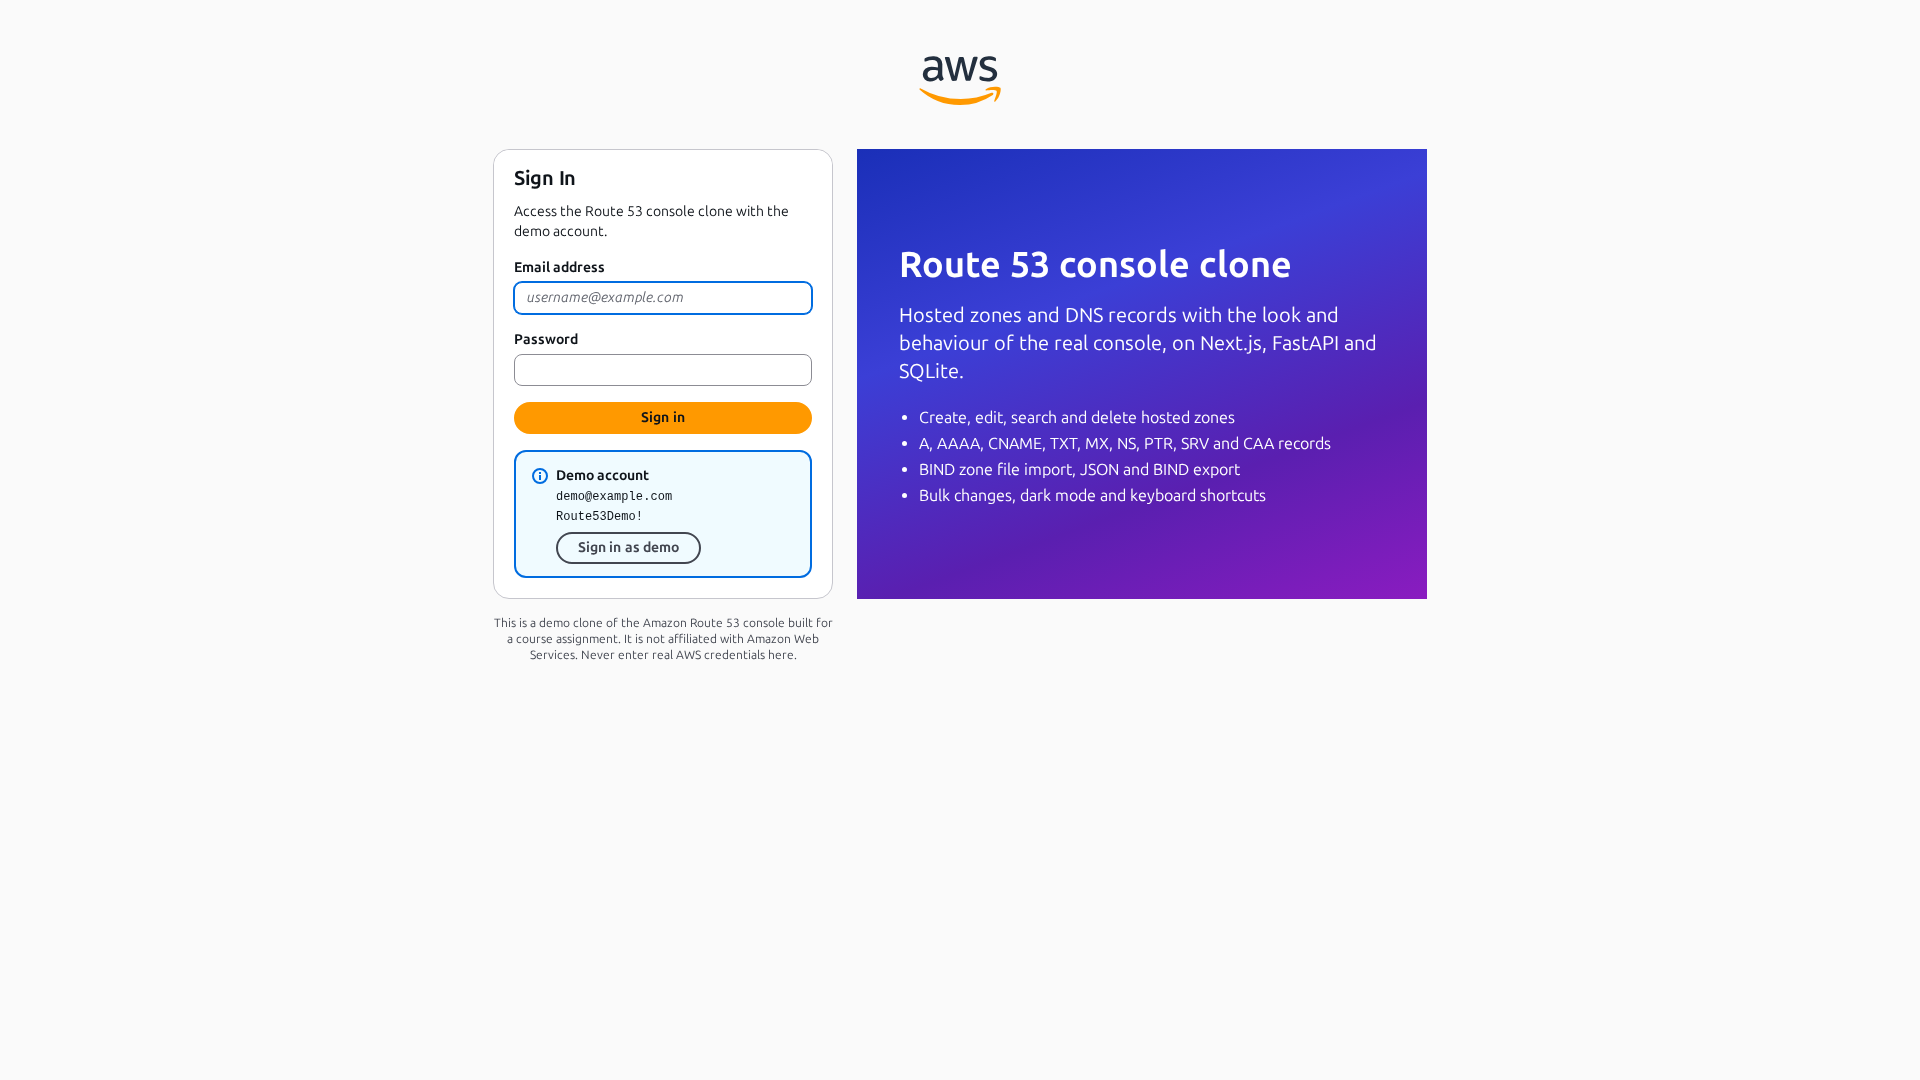
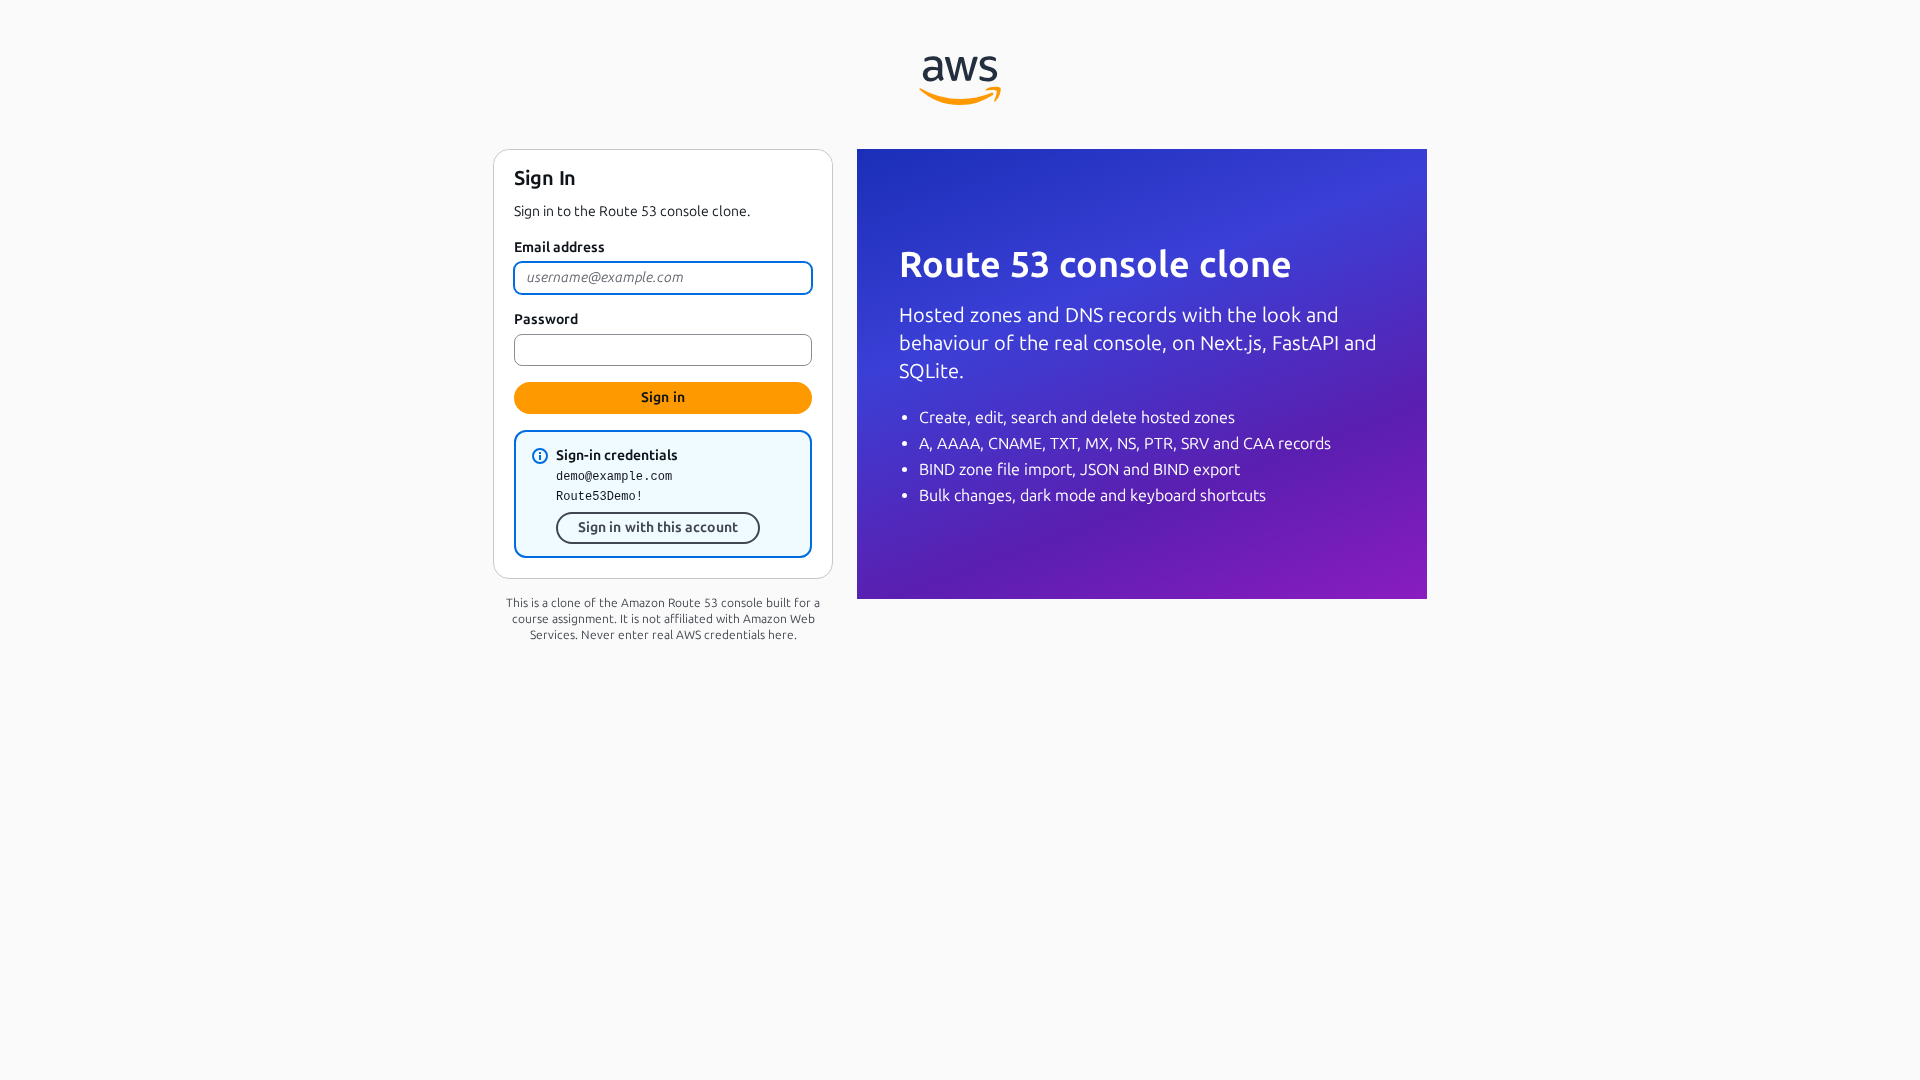
Stop calling the console a demo in the interface
The sign-in page, the header and footer notices, the account menu and the
page description said "demo"; they now say "clone" or nothing. The notice
that the site is not affiliated with AWS stays on the sign-in page.

The endpoint behind the sign-in page's credentials box is renamed from
/auth/demo-credentials to /auth/published-credentials, and the API client
is regenerated. The README, the UI spec and the sign-in screenshot follow
the new wording.

Changed region(s): [[0.25, 0.1833, 0.4375, 0.6111]]

diff --git a/frontend/app/(auth)/signin/page.tsx b/frontend/app/(auth)/signin/page.tsx
@@ -34,9 +34,9 @@ function SignInForm() {
   const [password, setPassword] = useState("");
   const [submitted, setSubmitted] = useState(false);
 
-  const demo = useQuery({
-    queryKey: ["demo-credentials"],
-    queryFn: () => unwrap(api.GET("/api/v1/auth/demo-credentials")),
+  const published = useQuery({
+    queryKey: ["published-credentials"],
+    queryFn: () => unwrap(api.GET("/api/v1/auth/published-credentials")),
     retry: false,
     staleTime: Infinity,
   });
@@ -64,7 +64,7 @@ function SignInForm() {
     <form onSubmit={onSubmit} noValidate>
       <Container header={<Header variant="h2">Sign In</Header>}>
         <SpaceBetween size="m">
-          <Box>Access the Route 53 console clone with the demo account.</Box>
+          <Box>Sign in to the Route 53 console clone.</Box>
           {failure && (
             <Alert type="error" header="There was a problem">
               {failure}
@@ -98,27 +98,27 @@ function SignInForm() {
           <Button variant="primary" fullWidth formAction="submit" loading={signIn.isPending}>
             Sign in
           </Button>
-          {demo.data && (
+          {published.data && (
             <Alert
               type="info"
-              header="Demo account"
+              header="Sign-in credentials"
               action={
                 <Button
                   formAction="none"
                   disabled={signIn.isPending}
                   onClick={() => {
-                    setEmail(demo.data.email);
-                    setPassword(demo.data.password);
-                    submit(demo.data);
+                    setEmail(published.data.email);
+                    setPassword(published.data.password);
+                    submit(published.data);
                   }}
                 >
-                  Sign in as demo
+                  Sign in with this account
                 </Button>
               }
             >
-              <Box variant="code">{demo.data.email}</Box>
+              <Box variant="code">{published.data.email}</Box>
               <br />
-              <Box variant="code">{demo.data.password}</Box>
+              <Box variant="code">{published.data.password}</Box>
             </Alert>
           )}
         </SpaceBetween>
@@ -142,11 +142,11 @@ export default function SignInPage() {
             </Suspense>
           </div>
           <p className={styles.legal}>
-            This is a demo clone of the Amazon Route 53 console built for a course assignment. It is
-            not affiliated with Amazon Web Services. Never enter real AWS credentials here.
+            This is a clone of the Amazon Route 53 console built for a course assignment. It is not
+            affiliated with Amazon Web Services. Never enter real AWS credentials here.
           </p>
         </div>
-        <section className={styles.promo} aria-label="About this demo">
+        <section className={styles.promo} aria-label="About this clone">
           <h1 className={styles.promoTitle}>Route 53 console clone</h1>
           <p className={styles.promoText}>
             Hosted zones and DNS records with the look and behaviour of the real console, on

diff --git a/frontend/lib/api/schema.d.ts b/frontend/lib/api/schema.d.ts
@@ -72,7 +72,7 @@ export interface paths {
         patch?: never;
         trace?: never;
     };
-    "/api/v1/auth/demo-credentials": {
+    "/api/v1/auth/published-credentials": {
         parameters: {
             query?: never;
             header?: never;
@@ -80,10 +80,10 @@ export interface paths {
             cookie?: never;
         };
         /**
-         * Credentials of the public demo account
-         * @description Lets the sign-in page of a public demo show how to get in. Returns 404 when `R53_DEMO_CREDENTIALS_PUBLIC` is off.
+         * Credentials the sign-in page may show
+         * @description Lets the sign-in page of a public deployment show how to get in. Returns 404 when `R53_DEMO_CREDENTIALS_PUBLIC` is off.
          */
-        get: operations["demo_credentials"];
+        get: operations["published_credentials"];
         put?: never;
         post?: never;
         delete?: never;
@@ -321,13 +321,6 @@ export interface components {
              * @description Record sets created or updated
              */
             record_sets: components["schemas"]["RecordSetOut"][];
-        };
-        /** DemoCredentials */
-        DemoCredentials: {
-            /** Email */
-            email: string;
-            /** Password */
-            password: string;
         };
         /** ErrorDetail */
         ErrorDetail: {
@@ -586,6 +579,13 @@ export interface components {
             page_size: number;
             /** Pages */
             pages: number;
+        };
+        /** PublishedCredentials */
+        PublishedCredentials: {
+            /** Email */
+            email: string;
+            /** Password */
+            password: string;
         };
         /**
          * RecordSetInput
@@ -931,7 +931,7 @@ export interface operations {
             };
         };
     };
-    demo_credentials: {
+    published_credentials: {
         parameters: {
             query?: never;
             header?: never;
@@ -946,7 +946,7 @@ export interface operations {
                     [name: string]: unknown;
                 };
                 content: {
-                    "application/json": components["schemas"]["DemoCredentials"];
+                    "application/json": components["schemas"]["PublishedCredentials"];
                 };
             };
             /** @description The hosted zone or record does not exist */

diff --git a/frontend/components/shell/global-footer.tsx b/frontend/components/shell/global-footer.tsx
@@ -12,13 +12,13 @@ import { useNotify } from "./notifications";
 
 const REPOSITORY = "https://github.com/biscuitrescue/aws-route53-console-clone";
 
-/** What the footer's legal links say in a demo that has no legal department. */
+/** What the footer's legal links say in a clone that has no legal department. */
 function AboutModal({ onDismiss }: { onDismiss: () => void }) {
   return (
     <Modal
       visible
       onDismiss={onDismiss}
-      header="About this demo"
+      header="About this clone"
       footer={
         <Box float="right">
           <Button variant="primary" onClick={onDismiss}>
@@ -35,14 +35,14 @@ function AboutModal({ onDismiss }: { onDismiss: () => void }) {
         <div>
           <Box variant="h3">Privacy</Box>
           <Box variant="p">
-            The only account is a shared demo account. Hosted zones and records you create are
-            visible to everyone who signs in. Do not enter personal data or real credentials.
+            The only account is shared. Hosted zones and records you create are visible to everyone
+            who signs in. Do not enter personal data or real credentials.
           </Box>
         </div>
         <div>
           <Box variant="h3">Terms</Box>
           <Box variant="p">
-            The demo is provided as is, without any guarantee of availability, and its data may be
+            The clone is provided as is, without any guarantee of availability, and its data may be
             reset at any time.
           </Box>
         </div>
@@ -65,7 +65,7 @@ export function GlobalFooter() {
   const [aboutVisible, setAboutVisible] = useState(false);
 
   const notAvailable = (feature: string, detail: string) => () =>
-    notify.info(`${feature} is not available in this demo`, detail);
+    notify.info(`${feature} is not available in this clone`, detail);
   const about = () => setAboutVisible(true);
 
   return (

diff --git a/frontend/components/shell/header-menus.tsx b/frontend/components/shell/header-menus.tsx
@@ -47,7 +47,7 @@ function useNotAvailable() {
   const notify = useNotify();
   return (feature: string) =>
     notify.info(
-      `${feature} is not available in this demo`,
+      `${feature} is not available in this clone`,
       "This clone implements Route 53 hosted zones and records. Other AWS services, account settings and billing are mocked.",
     );
 }
@@ -154,7 +154,7 @@ export function ServicesMenu() {
               </ul>
             ) : (
               <p className={styles.servicesEmpty}>
-                Nothing to show here. Route 53 is the only service in this demo; find it under
+                Nothing to show here. Route 53 is the only service in this clone; find it under
                 Networking &amp; Content Delivery.
               </p>
             )}
@@ -363,7 +363,7 @@ export function AccountMenu() {
         <div className={`${styles.menu} ${styles.accountMenu}`} role="menu" aria-label="Account">
           {mocked(account)}
           <div className={styles.accountSummary}>
-            <span>Demo account</span>
+            <span>Account</span>
             <div>
               <div>
                 <span>Account ID</span>

diff --git a/frontend/e2e/features.spec.ts b/frontend/e2e/features.spec.ts
@@ -31,7 +31,7 @@ async function createZone(page: Page, label: string): Promise<Zone> {
   return { id: (await response.json()).id, name };
 }
 
-/** Empty a zone and delete it, so runs against a shared demo leave nothing behind. */
+/** Empty a zone and delete it, so runs against a shared deployment leave nothing behind. */
 async function removeZone(page: Page, zone: Zone) {
   const records = await (
     await page.request.get(`${API}/hostedzones/${zone.id}/records?page_size=500`)
@@ -252,7 +252,7 @@ test("header menus work and say what is only a placeholder", async ({ page }) =>
   await page.keyboard.press("Escape");
 
   await page.getByRole("button", { name: "CloudShell" }).first().click();
-  await expect(flash(page)).toContainText("CloudShell is not available in this demo");
+  await expect(flash(page)).toContainText("CloudShell is not available in this clone");
 
   await page.getByRole("button", { name: "Help & support" }).click();
   await page.getByRole("button", { name: "Keyboard shortcuts" }).click();

diff --git a/frontend/components/shell/global-header.tsx b/frontend/components/shell/global-header.tsx
@@ -162,7 +162,7 @@ function Search({ onAskAssistant }: { onAskAssistant: () => void }) {
 export function GlobalHeader({ onShowShortcuts }: { onShowShortcuts: () => void }) {
   const router = useRouter();
   const notify = useNotify();
-  const askAssistant = () => notify.info("Amazon Q is not available in this demo", ASSISTANT_NOTE);
+  const askAssistant = () => notify.info("Amazon Q is not available in this clone", ASSISTANT_NOTE);
 
   return (
     <header id="h" className={styles.header}>
@@ -212,7 +212,7 @@ export function GlobalHeader({ onShowShortcuts }: { onShowShortcuts: () => void 
           title="CloudShell"
           onClick={() =>
             notify.info(
-              "CloudShell is not available in this demo",
+              "CloudShell is not available in this clone",
               "This clone has no shell. Its REST API is documented at /api/docs.",
             )
           }

diff --git a/frontend/e2e/smoke.spec.ts b/frontend/e2e/smoke.spec.ts
@@ -7,7 +7,7 @@ import type { RecordType } from "../lib/api/types";
 const EMAIL = process.env.E2E_EMAIL ?? "demo@example.com";
 const PASSWORD = process.env.E2E_PASSWORD ?? "Route53Demo!";
 
-/** A zone name no other run uses, so the test can run against a shared demo. */
+/** A zone name no other run uses, so the test can run against a shared deployment. */
 const ZONE = `e2e-${Date.now().toString(36)}.example`;
 
 const RECORDS: { name: string; type: RecordType; value: string }[] = [

diff --git a/frontend/app/layout.tsx b/frontend/app/layout.tsx
@@ -12,7 +12,7 @@ import { Providers } from "./providers";
 
 export const metadata: Metadata = {
   title: "Route 53",
-  description: "A clone of the Amazon Route 53 console. A demo project, not affiliated with AWS.",
+  description: "A clone of the Amazon Route 53 console, not affiliated with AWS.",
   robots: { index: false, follow: false },
 };
 

diff --git a/backend/app/routers/auth.py b/backend/app/routers/auth.py
@@ -3,7 +3,7 @@ from fastapi import APIRouter, Response, status
 from app.dependencies import CurrentSession, DbSession, SessionToken, SettingsDep
 from app.errors import NotFoundError
 from app.routers.responses import BAD_REQUEST, NOT_FOUND, UNAUTHORIZED
-from app.schemas.auth import DemoCredentials, LoginRequest, SessionOut, UserOut
+from app.schemas.auth import LoginRequest, PublishedCredentials, SessionOut, UserOut
 from app.services import auth as auth_service
 
 router = APIRouter(prefix="/auth", tags=["Authentication"])
@@ -48,13 +48,13 @@ def me(session: CurrentSession) -> SessionOut:
 
 
 @router.get(
-    "/demo-credentials",
-    summary="Credentials of the public demo account",
-    description="Lets the sign-in page of a public demo show how to get in. Returns 404 when "
-    "`R53_DEMO_CREDENTIALS_PUBLIC` is off.",
+    "/published-credentials",
+    summary="Credentials the sign-in page may show",
+    description="Lets the sign-in page of a public deployment show how to get in. Returns 404 "
+    "when `R53_DEMO_CREDENTIALS_PUBLIC` is off.",
     responses=NOT_FOUND,
 )
-def demo_credentials(settings: SettingsDep) -> DemoCredentials:
+def published_credentials(settings: SettingsDep) -> PublishedCredentials:
     if not settings.demo_credentials_public:
-        raise NotFoundError("Demo credentials are not published on this deployment.")
-    return DemoCredentials(email=settings.demo_email, password=settings.demo_password)
+        raise NotFoundError("Credentials are not published on this deployment.")
+    return PublishedCredentials(email=settings.demo_email, password=settings.demo_password)

diff --git a/backend/tests/test_auth_api.py b/backend/tests/test_auth_api.py
@@ -170,18 +170,16 @@ def test_docs_are_served(anonymous: TestClient) -> None:
     assert "/api/v1/hostedzones/{zone_id}/records:batch" in schema["paths"]
 
 
-def test_demo_credentials_are_published_by_default(
-    anonymous: TestClient, settings: Settings
-) -> None:
-    response = anonymous.get(f"{API}/auth/demo-credentials")
+def test_credentials_are_published_by_default(anonymous: TestClient, settings: Settings) -> None:
+    response = anonymous.get(f"{API}/auth/published-credentials")
     assert response.status_code == 200
     assert response.json() == {"email": settings.demo_email, "password": PASSWORD}
 
 
-def test_demo_credentials_can_be_withheld(settings: Settings) -> None:
+def test_published_credentials_can_be_withheld(settings: Settings) -> None:
     app = create_app(settings.model_copy(update={"demo_credentials_public": False}))
     with TestClient(app) as client:
-        response = client.get(f"{API}/auth/demo-credentials")
+        response = client.get(f"{API}/auth/published-credentials")
     app.state.engine.dispose()
     assert response.status_code == 404
     assert response.json()["code"] == "NotFound"

diff --git a/backend/app/schemas/auth.py b/backend/app/schemas/auth.py
@@ -22,6 +22,6 @@ class SessionOut(BaseModel):
     expires_at: datetime
 
 
-class DemoCredentials(BaseModel):
+class PublishedCredentials(BaseModel):
     email: str
     password: str

diff --git a/docs/ui-spec.md b/docs/ui-spec.md
@@ -294,10 +294,10 @@ scrolls horizontally with the sticky scrollbar (S52, S53).
 |---|---|
 | Path routes (`/route53/v2/hostedzones/{id}`) instead of hash routes; the console's hash URLs redirect to them. | Server-side route guard and deep links need real paths. |
 | Ubuntu Sans where Amazon Ember is not installed. | Amazon Ember is not licensed for reuse; see section 2. |
-| The sign-in page is one card with email and password, shows the demo credentials and says it is a demo. No user-type tiles, "Next" step or AWS legal text. | Authentication is mocked, and a public look-alike of the AWS sign-in page must not be mistakable for the real one. |
-| The footer's copyright line names the clone, and Privacy, Terms and Cookie preferences open a note about the demo. | Same reason; there is no legal entity behind the demo. |
-| Amazon Q, CloudShell, Agent Toolkit, Language, Switch project, Projects, Team, Billing, Profile and Notification center answer with a "not available in this demo" notice. | They belong to the AWS console, not to Route 53; the brief allows mocking them. |
-| The account menu shows the demo account's ID and user instead of plan status and credits. | There is no billing. |
+| The sign-in page is one card with email and password, shows the sign-in credentials and says it is a clone that is not affiliated with AWS. No user-type tiles, "Next" step or AWS legal text. | Authentication is mocked, and a public look-alike of the AWS sign-in page must not be mistakable for the real one. |
+| The footer's copyright line names the clone, and Privacy, Terms and Cookie preferences open a note about the clone. | Same reason; there is no legal entity behind the clone. |
+| Amazon Q, CloudShell, Agent Toolkit, Language, Switch project, Projects, Team, Billing, Profile and Notification center answer with a "not available in this clone" notice. | They belong to the AWS console, not to Route 53; the brief allows mocking them. |
+| The account menu shows the account's ID and user instead of plan status and credits. | There is no billing. |
 | Record types SPF, NAPTR, DS, TLSA, SSHFP, HTTPS and SVCB, and the IP-based and Geoproximity routing policies, are listed but disabled. | Assignment scope: nine record types. |
 | Alias targets other than a record of the same zone are entered as a DNS name and hosted zone ID. | The clone has no AWS resources to list. |
 | The wizard's tiles have no illustrations, and its "Define record" dialog uses the quick-create fields without the console's longer field descriptions. | The illustrations are AWS artwork; the fields are shared with quick create. |
